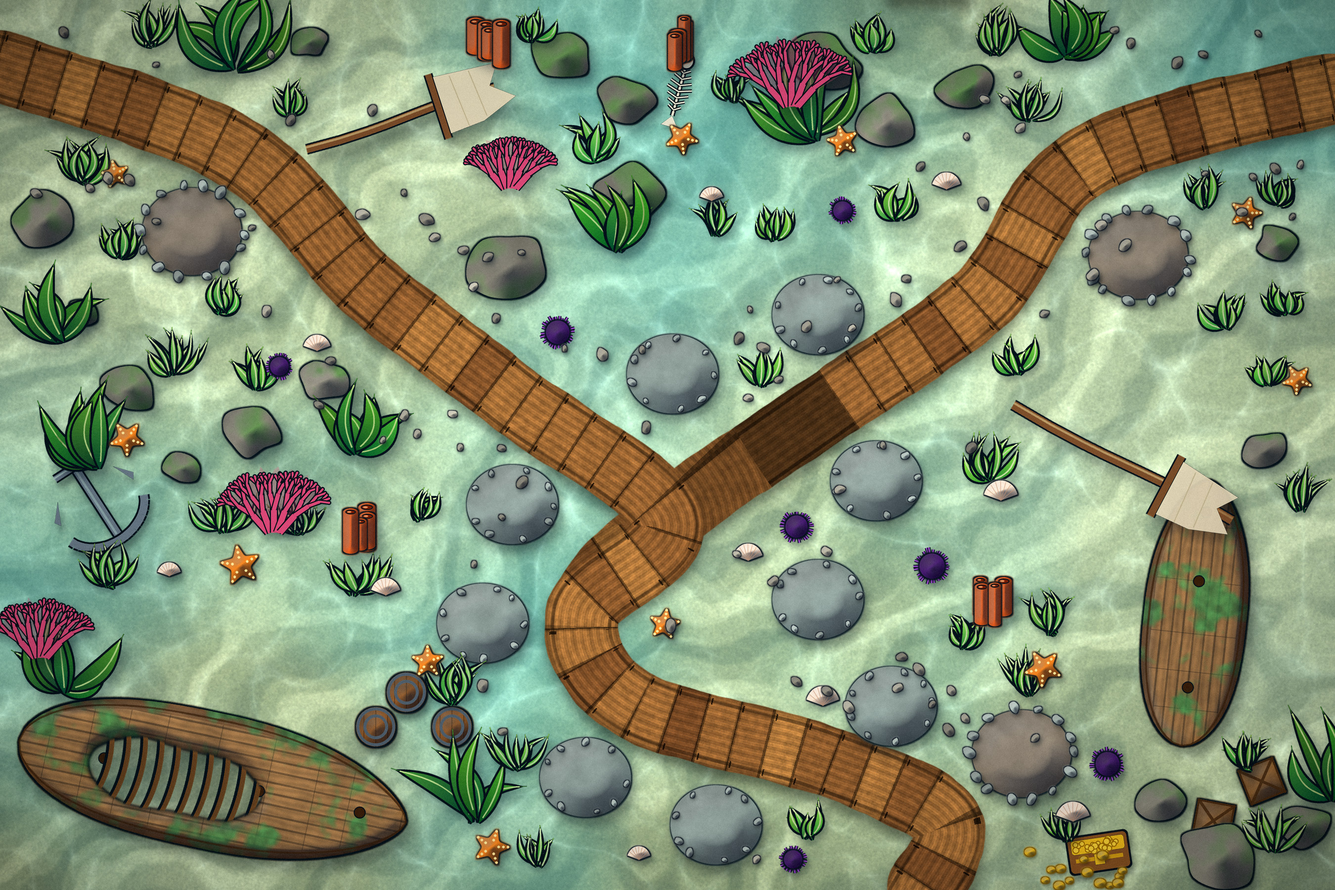
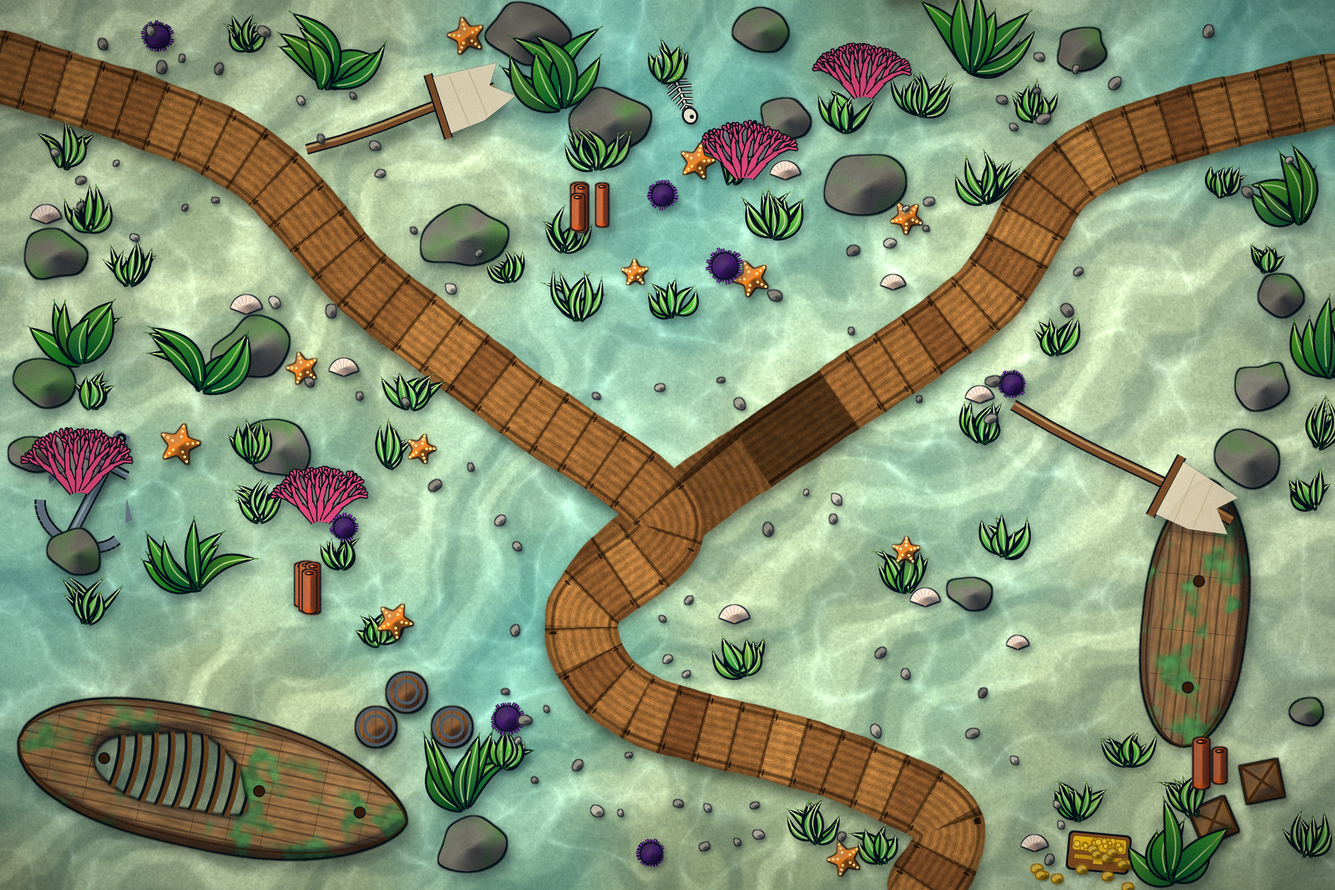
harita arkaplanlarindan kule zeminleri ve volkandaki krater kaldirildi
Kule yerlerinin altina cizilen tas halkali zeminler (beyaz taslar) kalabalik
gorunuyordu; oyunda zaten yesil/altin halkalar yerleri gosteriyor. Hepsi
kaldirildi, haritalar daha sade. Volkan'da sol alttaki turuncu daire de
cikarildi, Derin Cukur'daki isikli kule halkalari da.

diff --git a/tools/mapgen/volcano.py b/tools/mapgen/volcano.py
@@ -70,10 +70,7 @@ def build(out_path):
     PL.path_pebbles(sc, rng, dc, hw, rgb('#6e625d'), count=80, size=(1.4, 3.4))
 
     # --- kule zeminleri (turuncu ışıklı)
-    PL.spot_pads(sc, rng, SPOTS, '#52464b', '#8a7a80', high_base='#7a4a34')
-    for x, y, kind in SPOTS:
-        d = np.sqrt((xx - x) ** 2 + (yy - y) ** 2)
-        sc.add(LAVA if kind != 'high' else LAVA_HI, np.exp(-((d - 52) / 5.0) ** 2) * 0.28)
+    # kule yerlerinin altına zemin çizilmiyor: oyunda yeşil/altın halkalar zaten yerleri gösteriyor, sade görünüm için
 
     # --- nesneler
     avoid = (dc1 < hw + 30) | (C.logic(pool) > 0.3)
@@ -85,10 +82,6 @@ def build(out_path):
     wide |= dc1 < hw + 50
     ew = PL.edge_weights(1.0, 0.4)
 
-    cone, cglow = VP.crater_cone(rng, 105)
-    glow_stamp(sc, cone, cglow, 108, 770, LAVA, 0.8, 16)
-    PL.disk(avoid, 108, 770, 130)
-    PL.disk(wide, 108, 770, 150)
 
     # bacalar + duman
     vents = C.scatter_points(rng, 10, avoid | wide, 100, weights=ew)

diff --git a/tools/mapgen/abyss.py b/tools/mapgen/abyss.py
@@ -89,10 +89,7 @@ def build(out_path):
     PL.path_pebbles(sc, rng, dc, hw, rgb('#5c7078'), count=90, size=(1.4, 3.4))
 
     # --- kule zeminleri (ışıklı kenarlı)
-    PL.spot_pads(sc, rng, SPOTS, '#3c5058', '#57707a', high_base='#4a3a5e')
-    for x, y, kind in SPOTS:
-        d = np.sqrt((xx - x) ** 2 + (yy - y) ** 2)
-        sc.add(MAGENTA if kind == 'high' else CYAN, np.exp(-((d - 52) / 6.0) ** 2) * 0.22)
+    # kule yerlerinin altına zemin çizilmiyor: oyunda yeşil/altın halkalar zaten yerleri gösteriyor, sade görünüm için
 
     # --- nesneler
     avoid = (dc1 < hw + 30) | isl1

diff --git a/tools/mapgen/mangrove.py b/tools/mapgen/mangrove.py
@@ -71,7 +71,7 @@ def build(out_path):
     sc.blend(MUD_EDGE, outline * 0.8)
 
     # --- kule zeminleri: ahşap platform / kütük tabanı
-    PL.spot_pads(sc, rng, SPOTS, '#7a5a34', '#4d3820', high_base='#a8803a')
+    # kule yerlerinin altına zemin çizilmiyor: oyunda yeşil/altın halkalar zaten yerleri gösteriyor, sade görünüm için
 
     # --- nesneler
     land1 = C.logic(land) > 0.6

diff --git a/tools/mapgen/kelp.py b/tools/mapgen/kelp.py
@@ -36,7 +36,7 @@ def build(out_path):
     PL.path_pebbles(sc, rng, dc, hw, rgb('#c9b484'), count=150)
 
     # --- kule zeminleri
-    PL.spot_pads(sc, rng, spots, '#a9b79a', '#8b9a86', high_base='#c8b27a')
+    # kule yerlerinin altına zemin çizilmiyor: oyunda yeşil/altın halkalar zaten yerleri gösteriyor, sade görünüm için
 
     # --- nesneler
     avoid = dc1 < hw + 34

diff --git a/tools/mapgen/wreck.py b/tools/mapgen/wreck.py
@@ -116,7 +116,7 @@ def build(out_path):
     paint_planks(sc, dc, rng, smooth, len(S.WRECK_TAIL), hw)
 
     # --- kule zeminleri
-    PL.spot_pads(sc, rng, SPOTS, '#8a9b95', '#a6b4ae', high_base='#8d8272')
+    # kule yerlerinin altına zemin çizilmiyor: oyunda yeşil/altın halkalar zaten yerleri gösteriyor, sade görünüm için
 
     # --- nesneler
     avoid = dc1 < hw + 28

diff --git a/tools/mapgen/ice.py b/tools/mapgen/ice.py
@@ -82,7 +82,7 @@ def build(out_path):
     sc.add(rgb('#dff6ff'), foam * 0.35)
 
     # --- kule zeminleri
-    PL.spot_pads(sc, rng, SPOTS, '#8fb8d2', '#f4fbff', high_base='#d9c98a')
+    # kule yerlerinin altına zemin çizilmiyor: oyunda yeşil/altın halkalar zaten yerleri gösteriyor, sade görünüm için
 
     # --- nesneler (buz üstü)
     ice1 = C.logic(ice) > 0.6

diff --git a/tools/mapgen/atlantis.py b/tools/mapgen/atlantis.py
@@ -79,7 +79,7 @@ def build(out_path):
     sc.blend(rgb('#2a2418'), edge * inside)
 
     # --- kule zeminleri
-    PL.spot_pads(sc, rng, SPOTS, '#c9d6cc', '#a89462', high_base='#e0c878')
+    # kule yerlerinin altına zemin çizilmiyor: oyunda yeşil/altın halkalar zaten yerleri gösteriyor, sade görünüm için
 
     # --- nesneler
     plaza1 = C.logic(plaza) > 0.5
